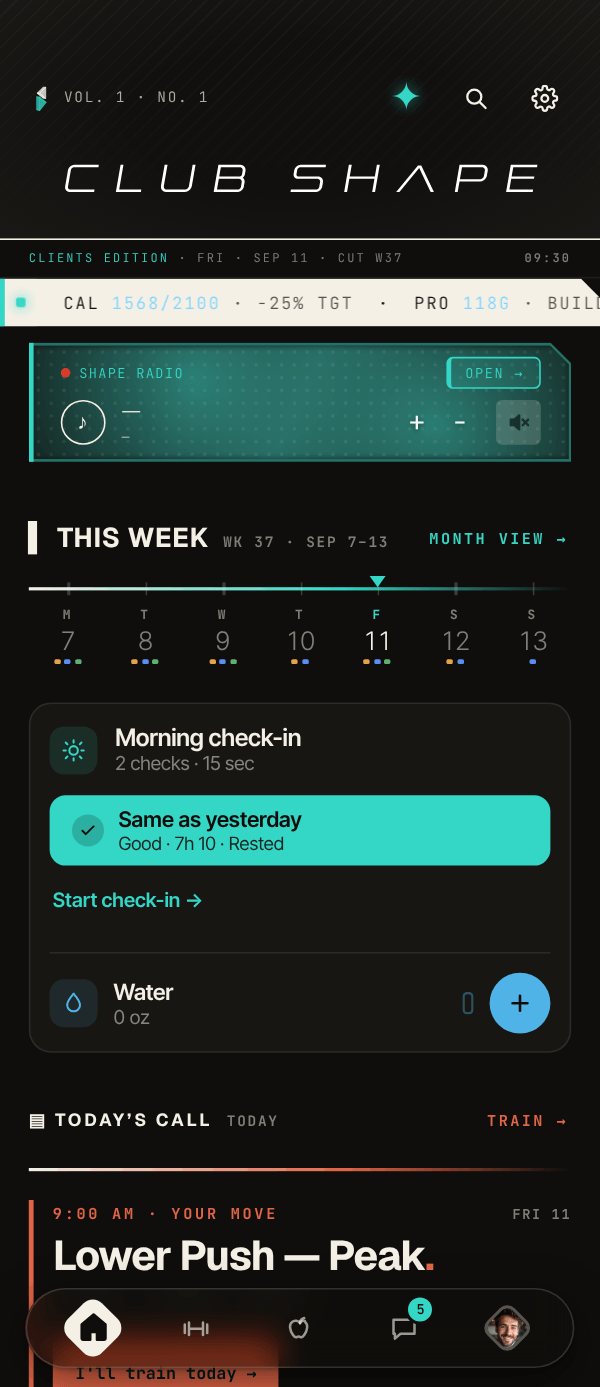
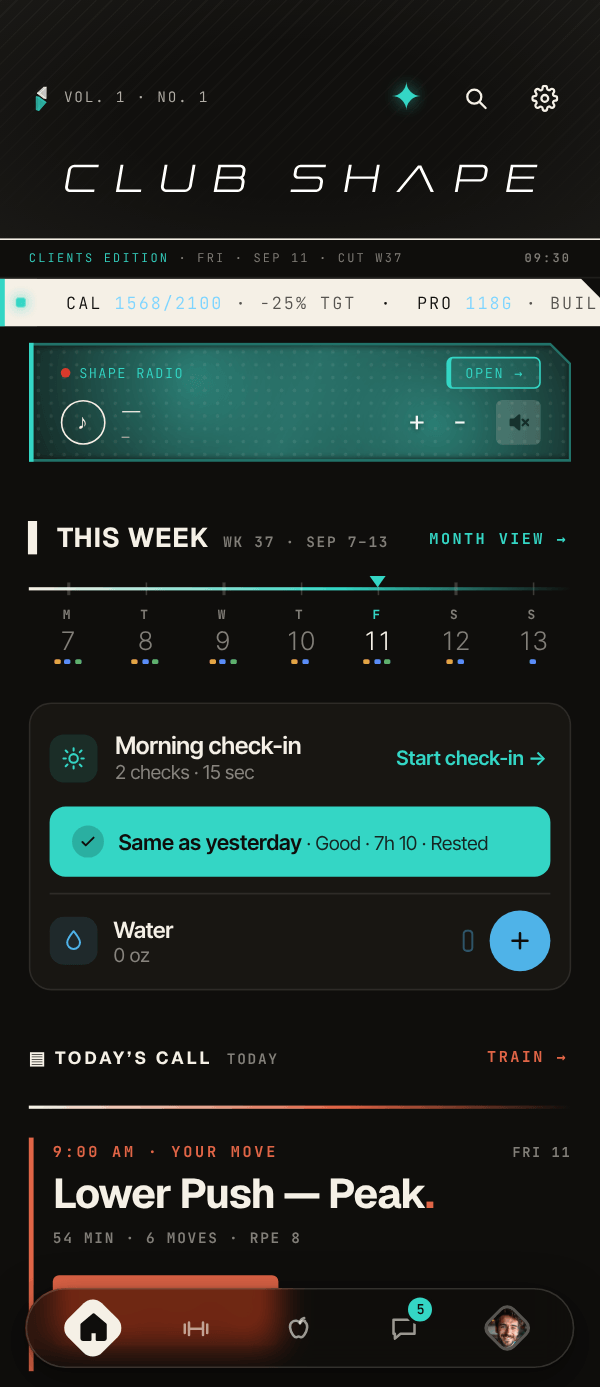
Get App and homepage: Home re-shot with the condensed morning card
The member Home's morning panel is two rows now (the previous commit on
this branch), so the shared Home capture (Get App's first beat and the
homepage's price phone) is re-shot by the recorded method from this
build. Production already serves this file at ?v=20261103 (#2571), so
both pages take ?v=20261103b. The coach capture was re-shot too and did
not change (only the masthead's animated mark).

Claude-Session: https://claude.ai/code/session_01BhoNr39QxQCYS4vxGqQWPT

diff --git a/public/newdesign/GetApp.html b/public/newdesign/GetApp.html
@@ -316,7 +316,7 @@
           <div class="num"><b>&#9632;</b> Today&rsquo;s call &#183; Lower Push &#8212; Peak &#183; check-in, 15 sec</div>
           <span class="exlabel">Example member</span>
         </div>
-        <div class="beat-ph"><div class="ph"><div class="ph-scr"><img src="/newdesign/getapp-home-v5.png?v=20261103" width="600" height="1387" alt="The app&rsquo;s Home screen: Shape Radio, the week strip, the morning check-in with water, and today&rsquo;s call" decoding="async"></div></div></div>
+        <div class="beat-ph"><div class="ph"><div class="ph-scr"><img src="/newdesign/getapp-home-v5.png?v=20261103b" width="600" height="1387" alt="The app&rsquo;s Home screen: Shape Radio, the week strip, the morning check-in with water, and today&rsquo;s call" decoding="async"></div></div></div>
       </section>
       <section class="beat" style="--sky:rgba(255,180,84,.08)">
         <div class="beat-copy">

diff --git a/public/newdesign/index.html b/public/newdesign/index.html
@@ -1124,7 +1124,7 @@
              Guarded by tests/homepage-climb.test.mjs. -->
         <div class="appph">
           <span class="isl"></span>
-          <img src="/newdesign/getapp-home-v5.png?v=20261103" width="600" height="1387" loading="lazy" decoding="async" alt="The app's Home screen: Shape Radio, this week's calendar, the morning check-in with water, and today's call" style="--y:0%">
+          <img src="/newdesign/getapp-home-v5.png?v=20261103b" width="600" height="1387" loading="lazy" decoding="async" alt="The app's Home screen: Shape Radio, this week's calendar, the morning check-in with water, and today's call" style="--y:0%">
         </div>
         <div class="phcap"><b>Today, at a glance</b>The Shape Daily: the station, your week, the morning check-in and today's call.<span class="lbl-row"><span class="exlabel">Example member</span></span></div>
       </div>
